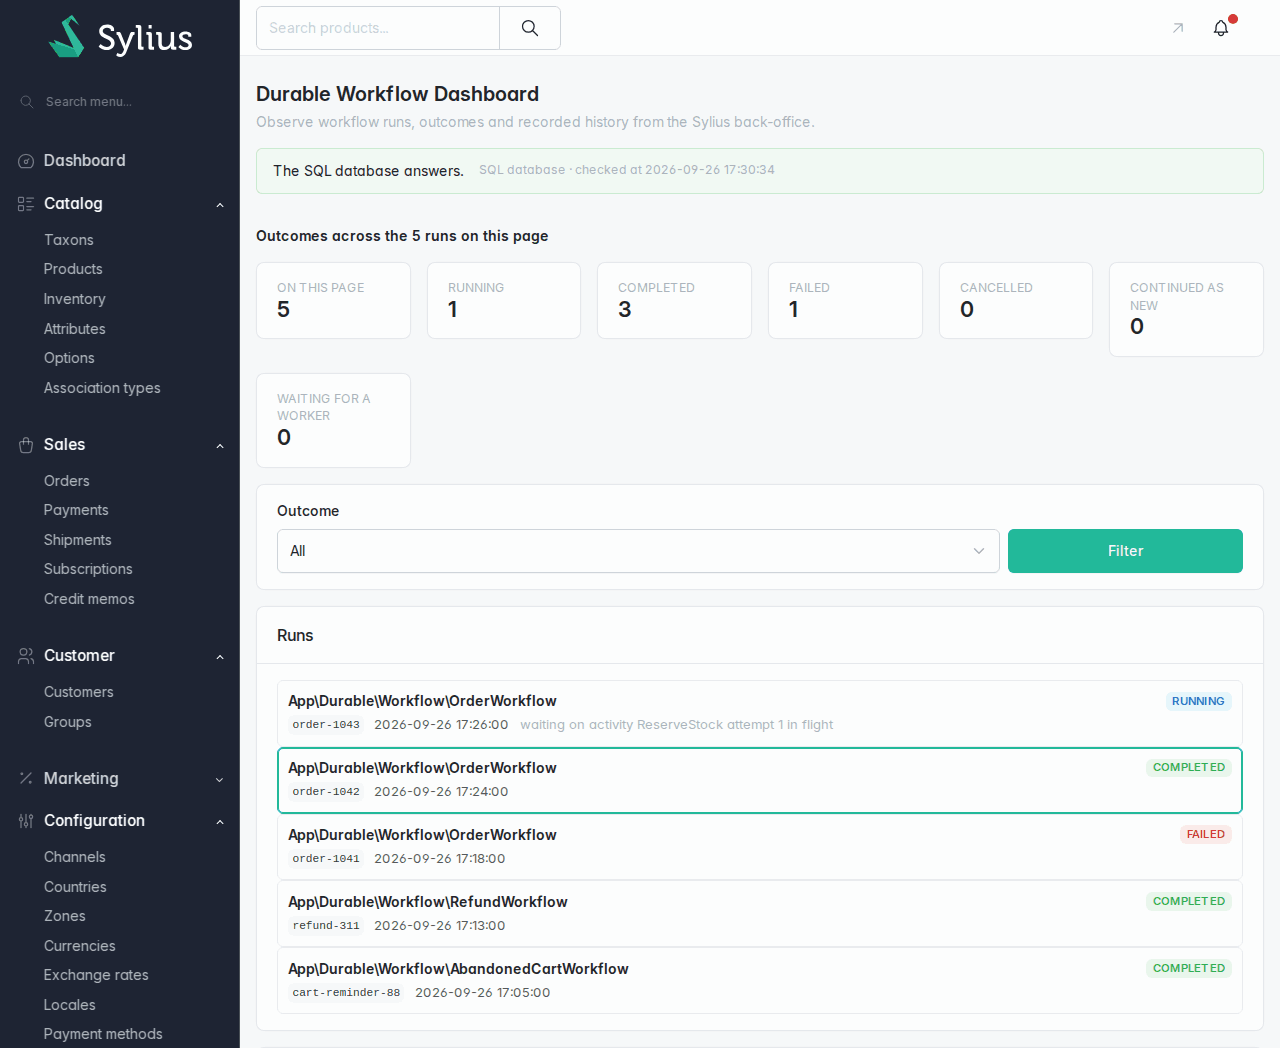
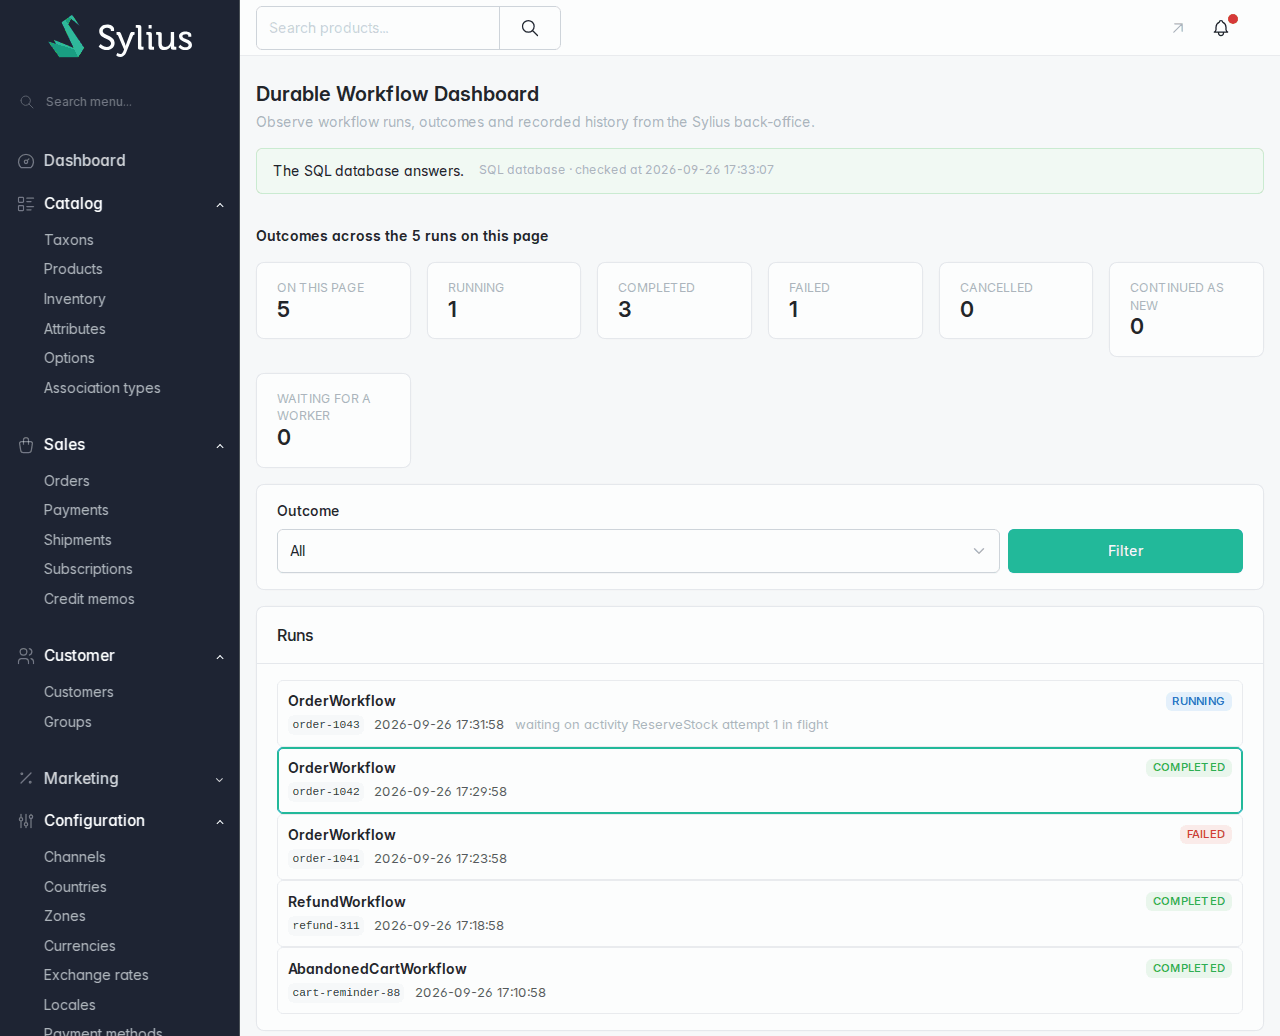
docs(plugin): reshoot the screenshots with workflow aliases (#252)
Durable records the alias, never the FQCN: the seeded runs now carry
OrderWorkflow, RefundWorkflow and AbandonedCartWorkflow. The text says
the runs were seeded. Review on #551.

diff --git a/README.md b/README.md
@@ -22,7 +22,7 @@
 
 ## Screenshots
 
-Taken from the Sylius bench (`sylius/` in the monorepo), on the SQL journal.
+Rendered by the Sylius bench (`sylius/` in the monorepo) on the SQL journal, over seeded runs.
 
 The runs list, with the backend state and the counters for the page:
 
@@ -32,7 +32,7 @@ A completed run: one line per action, hatched while the work waited for a worker
 
 ![Timeline of a completed order run: stock reservation, payment, a timer, then the confirmation email](docs/run.png)
 
-A failed run: what failed is painted red, and each event unfolds onto what the backend recorded:
+A failed run: what failed is painted red, and each event expands to show what the backend recorded:
 
 ![Timeline of a failed order run: the payment activity failed and the workflow failed with it](docs/run-failed.png)
 
